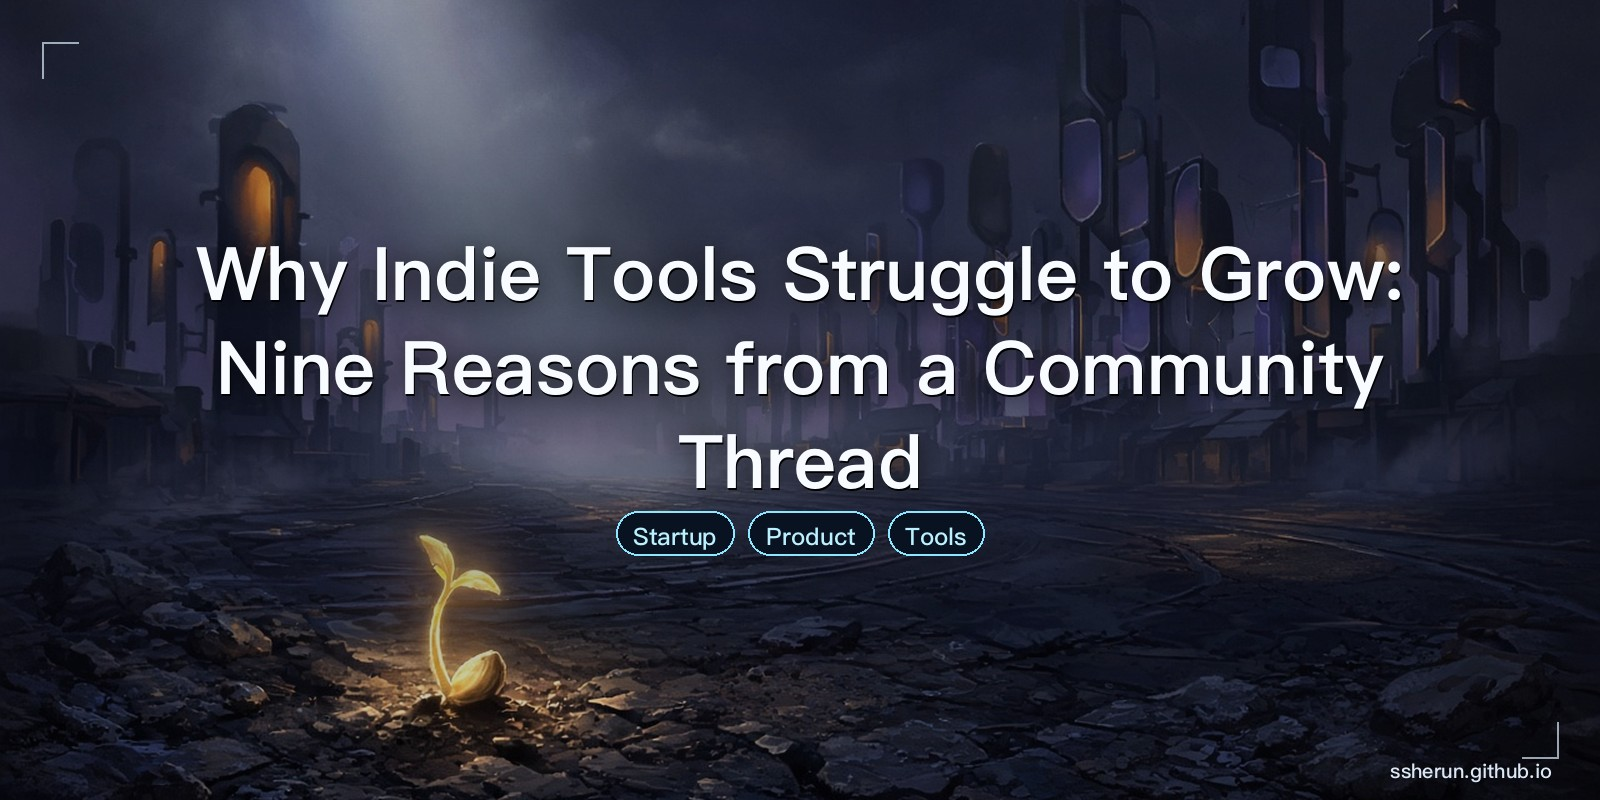
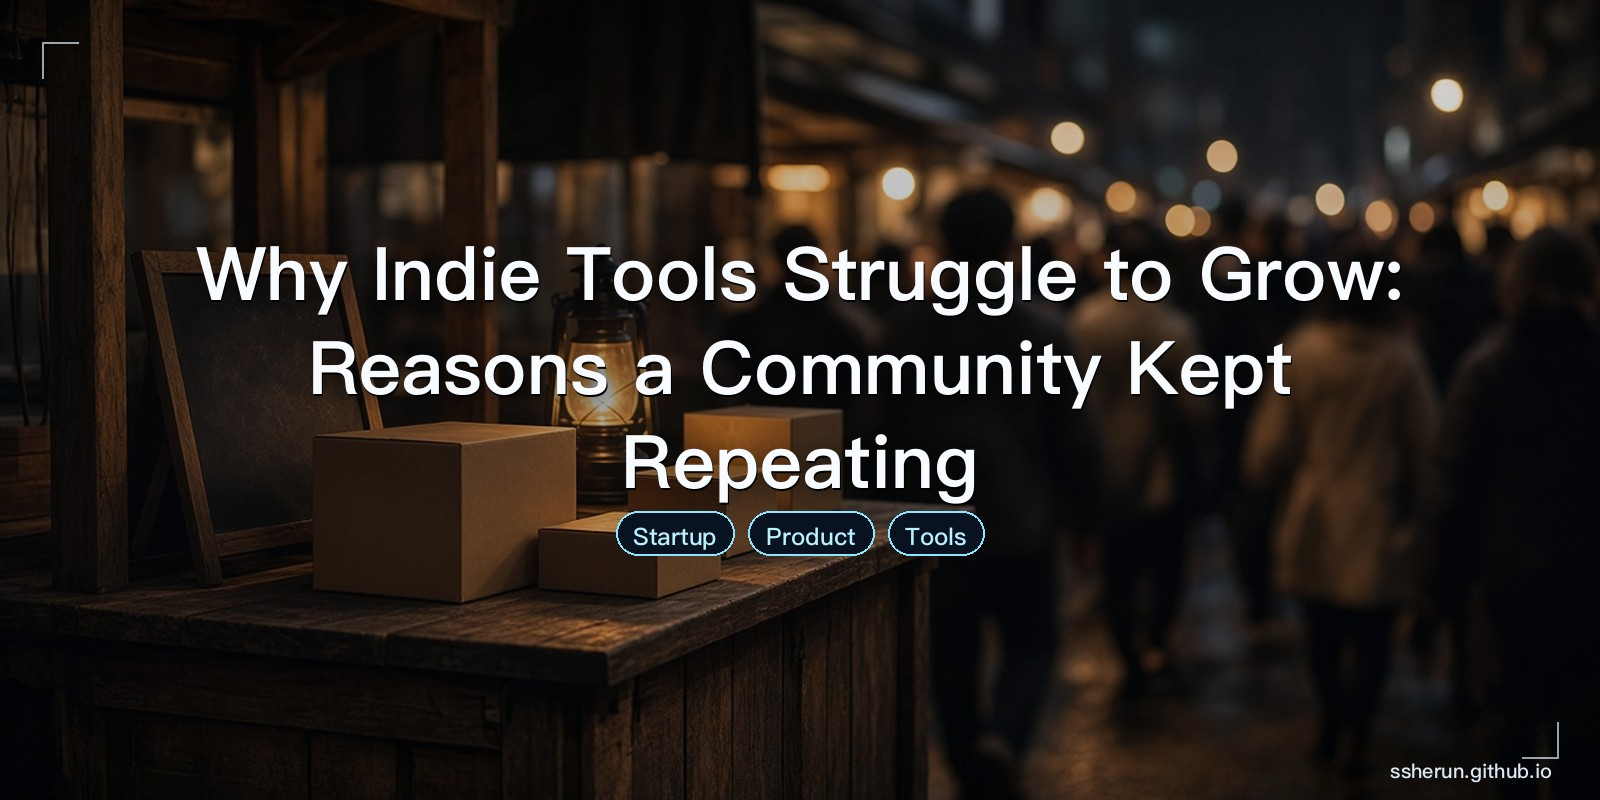
feat: deepen indie promotion post with trust, switching, and attention reasons

diff --git a/src/content/blog/indie-product-promotion-hard-truths.en.md b/src/content/blog/indie-product-promotion-hard-truths.en.md
@@ -1,7 +1,8 @@
 ---
-title: 'Why Indie Tools Struggle to Grow: Nine Reasons from a Community Thread'
-description: 'A product-agnostic distillation of a developer forum debate: organic growth is slow, unpaid validation is risky, audiences are too narrow, differentiation is weak, and pricing gaps kill conversion.'
+title: 'Why Indie Tools Struggle to Grow: Reasons a Community Kept Repeating'
+description: 'A product-agnostic distillation of a developer-forum debate: unpaid validation, weak differentiation, trust, switching lock-in, and attention inflation—not a missing secret channel.'
 pubDate: '2026-09-14'
+updatedDate: '2026-09-14'
 heroImage: '../../assets/cover-indie-product-promotion-hard-truths-en.jpg'
 tags: ['创业', '产品', '工具']
 lang: en
@@ -10,7 +11,7 @@ translationKey: 'indie-product-promotion-hard-truths'
 
 The most common indie-builder question is simple: **the product ships—how do you promote it?**
 
-In a recent community thread, the asker’s situation was familiar: a tool is live, social posts are going out, but the audience is tiny and daily new users sit in the single digits. Replies did not offer a magic growth hack. They kept returning to a set of harder, reusable reasons. This post keeps the **reasons**, not the product names.
+In a recent community thread, the asker’s situation was familiar: a tool is live, social posts are going out, the audience is tiny, and daily new users sit in the single digits. Seventy-plus replies did not offer a magic growth hack. They kept returning to a set of harder, reusable reasons. This post keeps the **reasons**, not the product names.
 
 ## 1. Organic spread is slow by default
 
@@ -20,58 +21,78 @@ A recurring consensus: do not skip necessary spend. Free backlinks, community go
 
 One blunt reply: if you will not spend to test acquisition, you risk building for yourself. Paid traffic may not be profitable, but it answers a ruthless question—**is distribution broken, or does nobody want to buy?**
 
-Mixing “validation budget” with “growth budget” is where many builders stall.
+Mixing “validation budget” with “growth budget” is where many builders stall. Others looked at the public content and guessed it was a product-power problem: buy a little traffic and you can no longer hide behind “we just have not been discovered.”
 
 ## 3. Content volume is not reach
 
 Posting often while sitting at ~100 followers is common. The implied lesson: spinning in place on mass platforms matters less than finding a small, precise audience. Output creates presence; reach decides whether the right people ever see you.
 
-## 4. Product strength and pain-point fit may be the real issue
-
-Some readers judged the public content as a product-power problem, not a “not discovered yet” problem. In crowded categories, your pain is not automatically theirs. If the audience is already a narrow niche, mass social needs designed targeting—not a bet that volume alone will be algorithmically delivered.
-
-## 5. Differentiation is fuzzy
-
-Commenters almost always ask: versus mature note / knowledge tools, what is the one advantage? If the answer collapses to “simpler UI” or “easier to start,” memory points stay weak, and word-of-mouth has nothing sharp to repeat.
+A harsher layer: platforms are not naive. Algorithms detect hard promotion and throttle it until you pay. Community giveaways used to move some downloads; now the feed is flooded with uneven, quickly shipped tools, and even the people who used to snipe promo codes have stopped bothering.
 
 ![Growth is rarely a secret channel problem](../../assets/inline-indie-product-promotion-hard-truths-01.jpg)
 
-## 6. Pricing tiers can kill conversion
+## 4. Differentiation is fuzzy; product strength may be the real issue
 
-Experienced builders note that flooding a community with free Pro can lift downloads without lifting revenue. High prices, missing mid tiers, or immature paid add-ons create a familiar gap: people see it, try it, and never pay. Lighter sync options for lower tiers can reduce cost and friction early.
+Commenters almost always ask: versus mature note / knowledge tools, what is the one advantage? If the answer collapses to “simpler UI” or “easier to start,” memory points stay weak, and word-of-mouth has nothing sharp to repeat.
 
-Download growth is not paid growth. Free membership giveaways are not a business model.
+Trying the product for a few minutes and feeling “this is the same as an existing collab tool,” an editor-like look, ads on the free tier, or text that vanishes while typing—none of that is a “post more” problem. It is **why switch**. One comment put it cleanly: if you did not solve a problem others have not solved, paid ads are the only remaining path.
 
-## 7. Builders default to tools for other internet people
+## 5. Pricing tiers can kill conversion
+
+Flooding a community with free Pro can lift downloads without lifting revenue. High prices, missing mid tiers, or immature paid add-ons create a familiar gap: people see it, try it, and never pay. Lighter sync options for lower tiers can reduce cost and friction early.
+
+A harder claim also showed up: features are difficult to sell; sync is what people might pay for. The moment sync becomes paid, it hits the trust wall in the next section. Download growth is not paid growth. Free membership giveaways are not a business model.
+
+## 6. Builders default to tools for other internet people
 
 One sharp, widely liked comment: the largest populations—kids, older adults, younger people outside tech slang—rarely get tools built for them. Wrong audience selection means even diligent promotion is fishing in a tiny pond.
 
-## 8. Going global is a long game, not a switch
+Someone added the obvious cut: people who keep notes are already a minority. You should not assume everyone needs a notebook. Pick the wrong category, and every acquisition tactic multiplies the wrong denominator.
 
-Overseas growth was suggested, then immediately complicated by hosting, compliance, language, and content ops. International can be a strategy; it is not a button that turns domestic stall into overnight lift.
+## 7. Trust, privacy, and shutdown risk get asked before features
 
-## 9. Niche creators often beat brute-force reach
+For notes and knowledge products, many people do not optimize for cheap. Data is priceless. Without years of survival—or a large-company backstop—they will not put life records on a startup that might close in months. That loss dwarfs any subscription they would have saved.
 
-A practical suggestion: partner with smaller creators in adjacent niches (tens of thousands of followers, not mega-channels). It is usually cheaper than top-tier ads and closer to real users.
+The people willing to pay for sync are often the least willing to store content on a service with an unknown lifespan. Trust is stacked in time. Feature lists do not manufacture it.
+
+## 8. Switching cost is a two-way deadlock
+
+People who already take notes have a stack and will not migrate lightly. People who do not take notes will not start because you shipped an app. Both sides are hard. “I can jot things anywhere” is also common: the category has neither loyalty nor a reason to switch.
+
+“A bit nicer” almost never buys a migration. You have to buy a gap the current stack cannot close.
+
+## 9. Attention is scarce, and developer communities are decaying as a channel
+
+Short video, short drama, and AI absorb attention; AI also makes new products cheap to ship, so audiences fatigue faster and look less. Posts in “show what I built” sections grow quickly, which makes being seen harder.
+
+One line landed: these threads are 100 users shipping 100 products, promoting each other, until everyone has 100 users. Demand is shifting too—people with a need in that community are now more likely to build it themselves than to become your customer. Treating a developer forum as a primary acquisition surface starts to look like selling shovels to other shovel sellers.
+
+## 10. Distribution is treated as an afterthought, so “I cannot promote” stays true
+
+Too many people think promotion means posting. Treat it like code: ranking logic, three-second retention, comments, friend-tagging, then the path to the download page. Each step is a design problem.
+
+More executable moves: write **use cases** across platforms (text plus narrated video), and partner with smaller creators in adjacent niches—tens of thousands of followers, not mega-channels. That is usually cheaper than top-tier ads and closer to real users. Going global and working with distribution stores can be strategy. Both are long games, not a button that turns a domestic stall into overnight lift.
+
+![Reach should be precise, not only bigger](../../assets/inline-indie-product-promotion-hard-truths-02.jpg)
 
 ## Checklist
 
 1. **Buy a small test of traffic** when you cannot tell channel failure from product failure.  
 2. **Rewrite the one-line wedge**—why switch, not “a bit nicer.”  
-3. **Audit the audience pool**—are you again building only for developers / internet workers?  
-4. **Split pricing**—mid tier, low-cost path, paid extras as a system.  
-5. **Retarget reach**—niche creators on mass platforms, not only your own tiny account.  
-6. **Stop treating free Pro as monetization**—downloads ≠ revenue.
+3. **Audit the audience pool**—are you again building only for developers / internet workers? Is the category itself a minority habit?  
+4. **Take trust seriously**—data products need a “we will still be here in years” promise, not a feature list.  
+5. **Split pricing**—mid tier, low-cost path, paid extras as a system.  
+6. **Retarget reach**—niche creators and use-case content, not only your tiny account and developer forums.  
+7. **Study distribution as a craft**—retention, comments, download-page conversion, step by step.  
+8. **Stop treating free Pro as monetization**—downloads ≠ revenue.
 
 ## Takeaway
 
 Hard promotion is rarely “missing a secret channel.” It is usually the stack of:
 
-**underfunded validation + too-narrow audience + weak differentiation + pricing gaps + overbelief in organic growth**
+**underfunded validation + weak differentiation + too-narrow audience + missing trust + switching lock-in + attention inflation + overbelief in organic growth and developer communities**
 
 Channel tactics help. Communities more often throw the problem back at product and market choice—and that is useful, because those are items you can fix one by one.
-
-![Reach should be precise, not only bigger](../../assets/inline-indie-product-promotion-hard-truths-02.jpg)
 
 ## Related posts
 

diff --git a/src/content/blog/indie-product-promotion-hard-truths.md b/src/content/blog/indie-product-promotion-hard-truths.md
@@ -1,7 +1,8 @@
 ---
-title: '独立产品为什么推不动：社区里被反复提到的九个原因'
-description: '从一场独立开发者获客讨论中提炼：自然增长太慢、不敢买量验证、受众过窄、差异化弱、定价断层……推广难往往不是缺神秘渠道。'
+title: '独立产品为什么推不动：社区里被反复提到的原因'
+description: '从一场独立开发者获客讨论中提炼：买量验证、差异化、信任、迁移死锁、注意力通胀……推广难往往不是缺神秘渠道。'
 pubDate: '2026-09-14'
+updatedDate: '2026-09-14'
 heroImage: '../../assets/cover-indie-product-promotion-hard-truths.jpg'
 tags: ['创业', '产品', '工具']
 lang: zh
@@ -9,68 +10,88 @@ lang: zh
 
 独立开发者最常问的一句话大概是：**产品做出来了，到底怎么宣传？**
 
-最近一场社区讨论里，提问者的处境很典型：工具已上线，自媒体也在发，但粉丝基数很小，每天只有个位数新用户。评论区没有给出「一招暴涨」的秘籍，反而把锅甩回一批更扎心、也更可复用的原因。下面只谈这些**原因与共识**，不点名任何具体产品。
+最近一场社区讨论里，提问者的处境很典型：工具已上线，自媒体也在发，粉丝只有百级，每天只有个位数新用户。七十多条回复没有给出「一招暴涨」，而是把锅甩回一批更扎心、也更可复用的原因。下面只谈这些**原因与共识**，不点名任何具体产品。
 
 ## 1. 完全靠自发传播，周期太长
 
-多人共识很朴素：该花的钱不要省。免费外链、社区口碑、账号自然涨粉，都能做，但周期偏长。工具类产品若把「用户自发帮你扩散」当成主引擎，往往等不起。
+多人共识很朴素：该花的钱不要省。免费外链、社区口碑、账号自然涨粉都能做，但周期偏长。工具类若把「用户自发帮你扩散」当成主引擎，往往等不起。
 
 ## 2. 不舍得花钱，就很难验证市场
 
 有评论直接说：舍不得拿工资去投放，产品做来做去容易变成自嗨。买量不一定能赚钱，但它至少回答一个残酷问题——**是渠道不行，还是根本没人买单。**
 
-把「验证预算」和「增长预算」混为一谈，是很多人卡住的第一步。
+把「验证预算」和「增长预算」混为一谈，是很多人卡住的第一步。也有人看完公开内容后判断：更像产品力问题，不信就买量验证——这句话的杀伤力在于，它让你没法继续用「还没被看见」当挡箭牌。
 
 ## 3. 有内容，不等于有触达半径
 
-发帖勤奋很常见，粉丝只有百级也很常见。讨论里的隐含观点是：在大众平台上空转，不如去找「小而准」的人。内容产量解决的是存在感；触达半径解决的是有没有碰到对的人。
+发帖勤奋、粉丝百级，很常见。讨论里的隐含观点是：在大众平台上空转，不如去找「小而准」的人。内容产量解决存在感；触达半径解决有没有碰到对的人。
 
-## 4. 产品力与痛点匹配，可能才是主因
-
-有人看完提问者的公开内容后判断：更像产品力问题，而不是「还没被看见」。同类工具一堆时，你的痛点不一定是别人的痛点。若受众本来就是极窄精准人群，大众社交上更需要设计触达路径，而不是假设发得够多就会被算法送到。
-
-## 5. 差异化叙事不清楚
-
-评论区几乎必问：相对成熟笔记 / 知识库产品，优势到底是什么？若只能落到「界面更简单」「更好上手」，在拥挤赛道里很难形成记忆点，自然传播也就缺少可复述的一句话。
+更扎心的一层：平台并不傻。算法能识别你在硬推，就会限流，逼你把钱交给平台。开发者社区里送会员、蹲兑换码以前还有点用，现在同类产品太多、质量参差，连蹲码的人都少了。
 
 ![增长不是神秘渠道问题](../../assets/inline-indie-product-promotion-hard-truths-01.jpg)
 
-## 6. 定价与档位设计会卡死转化
+## 4. 差异化叙事不清楚，产品力可能才是主因
 
-有经验的人提到：社区大水漫灌送高级会员，下载量可以上去，但难赚钱。定价偏高、中间档缺失、增值服务还不完善时，会出现「看得到、下得了、付不出」的断层。也有人建议低档用更轻的同步方案，先降低成本和心智负担。
+评论区几乎必问：相对成熟笔记 / 知识库，优势到底是什么？若只能落到「界面更简单」「更好上手」，记忆点就弱，口碑也没有可复述的一句话。
 
-下载增长 ≠ 付费增长。把社区送会员当成商业模式，通常会失望。
+试用几分钟觉得「和现成协作工具没区别」、界面像给程序员用的编辑器、免费档还带广告、输入内容会丢——这些反馈指向的都不是「再发几篇种草」，而是**用户为什么要换你**。有人说得更绝：你没有解决别人没解决过的问题，就只剩硬广一条路。
 
-## 7. 程序员默认给互联网人做工具，池子天然偏小
+## 5. 定价与档位会卡死转化
+
+社区大水漫灌送高级会员，下载量可以上去，钱难挣。定价偏高、中间档缺失、增值服务还不完善时，会出现「看得到、下得了、付不出」。低档用更轻的同步方案，能先降低成本和心智负担。
+
+还有一条更硬的判断：功能很难卖钱；同步才是有人愿意付费的点。可同步一旦收费，立刻撞上下一节的信任墙。下载增长 ≠ 付费增长。把送会员当成商业模式，通常会失望。
+
+## 6. 程序员默认给互联网人做工具，池子天然偏小
 
 一条刺耳但常被认同的评论：人数最多的儿童、老人、以及不熟悉技术圈黑话的年轻人，很少有人给他们做工具。受众选错，推广再勤奋也只是在小池塘里捞。
 
-## 8. 出海是长线，不是开关
+还有人补了一刀：记笔记的人本身就是少数。你不会假设「是个人就要记笔记」。品类选错，后面所有获客动作都在给错误分母做乘法。
 
-有人建议去海外推，但马上引出部署、合规、语言与内容运营等长周期问题。出海可以是战略选择，却不是「国内推不动就立刻起飞」的按钮。
+## 7. 信任、隐私、怕关停，比功能更先被问
 
-## 9. 细分赛道小创作者，往往比硬刚大流量更划算
+对笔记、知识库这类产品，很多人看的不是便宜，而是数据无价。没挺过足够多年、或没有大厂托底，他们不敢把人生记录交给初创——运营几个月关掉，损失远大于省下的订阅。
 
-更可执行的建议是：找和产品有交集、粉丝几万到十几万的非热门赛道创作者合作。通常比头部投放便宜，也更容易碰到真实用户。
+愿意为同步付费的人，往往更不敢把内容放到「还不知道能活多久」的服务上。这不是营销文案能糊弄过去的：信任要用时间堆，功能清单堆不出来。
+
+## 8. 迁移成本是双向死锁
+
+会记笔记的人早已有一套工具，不会轻易迁。不记笔记的人，也不会因为你做了工具就开始记。两边都难转化。还有人说「我用什么记都行」——在很多人那里，这个品类既没有品牌忠诚，也没有切换动力。
+
+所以「更好用一点」几乎买不来迁移。你要买的是一个足够痛的、现有栈解决不了的缺口。
+
+## 9. 注意力稀缺，开发者社区正在失效
+
+短视频、短剧、AI 把注意力吸走；AI 又让新产品层出不穷，观众更疲劳、更不想看。分享创造类帖子暴增，被看见反而更难。
+
+有人一针见血：这类帖子是 100 个用户做了 100 个产品，大家互相宣传，每个人都有了 100 个用户。需求侧也在变——社区里有需求的人，现在更可能自己开干，而不是成为你的用户。把开发者论坛当获客主场，越来越像在回音室里卖铲子给其他卖铲子的人。
+
+## 10. 运营被当成附属品，所以一直「不会宣传」
+
+太多人把推广想成发帖。该像对待代码一样对待：推流逻辑、3 秒留存、如何让人评论、如何让观众拉朋友、再怎么导向下载页，每一环都要设计。
+
+更可执行的动作还包括：在多个平台写**用例**（图文 + 带讲解的视频），以及找和产品有交集、粉丝几万到十几万的非热门赛道创作者合作。通常比硬刚头部便宜，也更容易碰到真实用户。出海和分发渠道合作可以是战略，但都是长线，不是国内推不动就立刻起飞的按钮。
+
+![触达要准，而不是只求更大流量](../../assets/inline-indie-product-promotion-hard-truths-02.jpg)
 
 ## 一张检查清单
 
 1. **先买一小笔量**：分不清渠道问题还是产品问题，就先用钱买答案。  
 2. **重写差异化一句话**：别人为什么必须换你，而不是「更好用一点」。  
-3. **检查受众池子**：是不是又在给程序员 / 互联网人做工具。  
-4. **拆开定价档位**：中间档、低成本方案、增值服务是否成体系。  
-5. **触达改准不准**：大众平台找对口细分创作者，而不是只在自己小号发。  
-6. **别把送会员当商业模式**：能拉下载，不等于能拉付费。
+3. **检查受众池子**：是不是又在给程序员 / 互联网人做工具；品类用户是不是本来就少。  
+4. **正视信任**：数据类产品要按「几年不关停」来设计承诺，而不是按功能列表。  
+5. **拆开定价档位**：中间档、低成本方案、增值服务是否成体系。  
+6. **触达改准不准**：细分创作者 + 用例内容，而不是只在自己小号和开发者社区互推。  
+7. **把运营当正事学**：留存、评论、下载页转化，逐项设计。  
+8. **别把送会员当商业模式**：能拉下载，不等于能拉付费。
 
 ## 结论
 
 推广难，往往不是缺一条神秘渠道，而是：
 
-**验证预算不足 + 受众过窄 + 差异化弱 + 定价断层 + 过度迷信自然增长**
+**验证预算不足 + 差异化弱 + 受众过窄 + 信任不足 + 迁移死锁 + 注意力通胀 + 过度迷信自然增长与开发者社区**
 
 叠在一起。渠道技巧有用，但社区更常把问题甩回产品和市场选择本身——这其实是好事：这些问题大多可以逐项改，而不是只能等运气。
-
-![触达要准，而不是只求更大流量](../../assets/inline-indie-product-promotion-hard-truths-02.jpg)
 
 ## 相关文章
 
